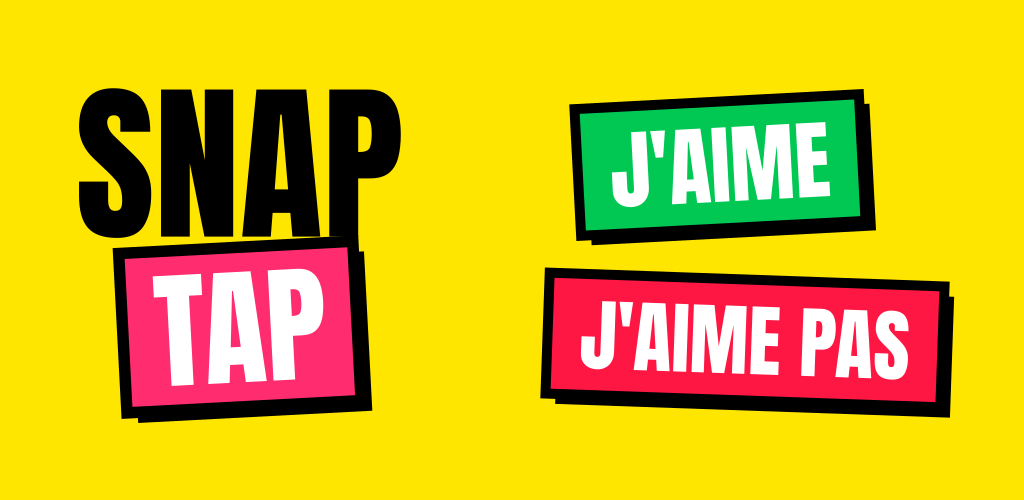
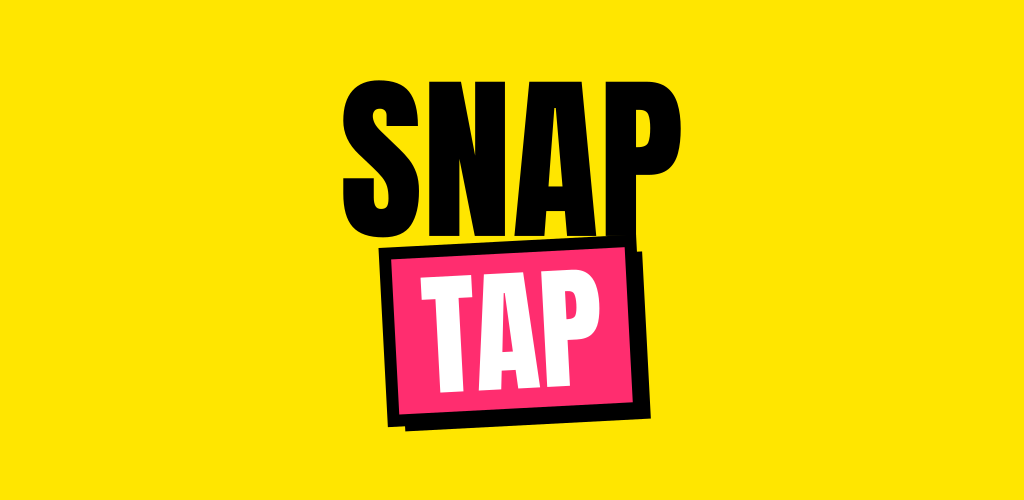
Habillage Mode Apero : fond biere dore, SNAP ERO, mise peaufinee
- Fond biere dore lumineux + grosse mousse (apero-bg webp portrait+wide)
- Logo SNAP ERO (jeu de mots APERO) + sous-titre "on mise des gorgees"
- Ecran resultat : espacements corriges, "Tout le monde boit N" sur 1 ligne
- Main de jeu : padding bas en mode apero (derniere carte plus masquee)
- Selecteur de mise epure (phrase d'aide retiree)
- cards.js : AMBER dore + APERO_ACCENT
- Banniere store : logo SNAP/TAP centre, sans pastilles
- index.css : fond apero-bg + cache-bust v4

diff --git a/src/components/Game.jsx b/src/components/Game.jsx
@@ -815,7 +815,7 @@ export default function Game({ room, roomCode, playerId, onLeave }) {
           </div>
         </div>
 
-        <div className="flex-1 px-4 pb-32 overflow-y-auto">
+        <div className={`flex-1 px-4 overflow-y-auto ${partyMode ? 'pb-48' : 'pb-32'}`}>
           <div className="grid grid-cols-2 gap-3 max-w-xl mx-auto">
             {myHandCardIds.map((cid) => {
               const card = pool[cid];
@@ -963,12 +963,6 @@ export default function Game({ room, roomCode, playerId, onLeave }) {
               ))}
             {partyMode && (
               <div className="mb-2">
-                <div
-                  style={{ fontFamily: '"Space Mono", monospace' }}
-                  className="text-[10px] uppercase tracking-widest text-center mb-1.5 opacity-70"
-                >
-                  Ta mise 🍺 · si ta carte est choisie, tout le monde boit
-                </div>
                 <div className="flex justify-center gap-2">
                   {[1, 2, 3, 4].map((n) => {
                     const on = bet === n;
@@ -1349,21 +1343,21 @@ export default function Game({ room, roomCode, playerId, onLeave }) {
 
           <div
             style={{ fontFamily: '"Space Mono", monospace' }}
-            className="text-[10px] uppercase tracking-widest opacity-60 mb-1"
+            className="text-[10px] uppercase tracking-widest opacity-60 mb-3"
           >
             Posée par
           </div>
           <div
             style={{
               fontFamily: '"Anton", sans-serif',
-              lineHeight: 0.9,
+              lineHeight: 1.05,
               fontSize: fitBig(winnerP?.name || ''),
               color: colorHex(winnerP?.color) || '#000',
               WebkitTextStroke: '5px #000',
               paintOrder: 'stroke fill',
               letterSpacing: '0.08em',
             }}
-            className="uppercase mb-2 break-words"
+            className="uppercase mb-6 break-words"
           >
             {winnerP?.name || '?'} {iAmWinner && '🎉'}
           </div>
@@ -1377,13 +1371,13 @@ export default function Game({ room, roomCode, playerId, onLeave }) {
                   boxShadow: '4px 4px 0 #000',
                   transform: 'rotate(3deg)',
                 }}
-                className="inline-block border-4 border-black px-4 py-3 text-3xl uppercase leading-none"
+                className="inline-block border-4 border-black px-4 py-3 text-3xl uppercase leading-none whitespace-nowrap"
               >
-                🍺 Tout le monde boit {winnerBet}
+                Tout le monde boit {winnerBet}
               </div>
               <div
                 style={{ fontFamily: '"Space Mono", monospace' }}
-                className="text-[11px] uppercase tracking-widest mt-4 flex items-center justify-center gap-2 flex-wrap"
+                className="text-[11px] uppercase tracking-widest mt-8 flex items-center justify-center gap-x-2 gap-y-1 flex-wrap"
               >
                 <span
                   style={{
@@ -1393,7 +1387,7 @@ export default function Game({ room, roomCode, playerId, onLeave }) {
                     WebkitTextStroke: '3px #000',
                     paintOrder: 'stroke fill',
                     letterSpacing: '0.05em',
-                    lineHeight: 1,
+                    lineHeight: 1.2,
                   }}
                 >
                   {winnerP?.name}

diff --git a/src/components/Home.jsx b/src/components/Home.jsx
@@ -11,7 +11,7 @@ import {
   setStoredAperoUnlock,
   ROOM_TTL_MS,
 } from '../utils';
-import { CATEGORIES, YELLOW, AMBER, PINK, MAX_PLAYERS } from '../cards';
+import { CATEGORIES, YELLOW, AMBER, PINK, APERO_ACCENT, MAX_PLAYERS } from '../cards';
 import { ChevronRight, Lock, X } from 'lucide-react';
 import InstallButton from './InstallButton.jsx';
 
@@ -190,13 +190,13 @@ export default function Home({ playerId, onJoin, initialError }) {
             <span
               className="inline-block px-5 py-2 -rotate-2 leading-none"
               style={{
-                backgroundColor: PINK,
+                backgroundColor: partyActive ? APERO_ACCENT : PINK,
                 color: '#fff',
                 border: '4px solid #000',
                 boxShadow: '6px 6px 0 #000',
               }}
             >
-              Tap
+              {partyActive ? 'Éro' : 'Tap'}
             </span>
           </h1>
           <div className="mt-4 flex items-center gap-2">
@@ -205,7 +205,7 @@ export default function Home({ playerId, onJoin, initialError }) {
               style={{ fontFamily: '"Space Mono", monospace' }}
               className="text-[10px] uppercase tracking-widest whitespace-nowrap text-black"
             >
-              {partyActive ? 'Mode apéro : on joue à boire' : "Devine ce qu'ils aiment ou pas…"}
+              {partyActive ? 'Mode apéro : on mise des gorgées' : "Devine ce qu'ils aiment ou pas…"}
             </div>
           </div>
         </div>
@@ -218,7 +218,7 @@ export default function Home({ playerId, onJoin, initialError }) {
             onClick={toggleParty}
             className="w-full border-4 border-black p-4 mb-8 flex items-center justify-between active:translate-x-[2px] active:translate-y-[2px]"
             style={{
-              backgroundColor: party ? PINK : '#FFF',
+              backgroundColor: party ? APERO_ACCENT : '#FFF',
               color: party ? '#FFF' : '#000',
               boxShadow: party ? '6px 6px 0 #000' : '4px 4px 0 #000',
               transition: 'all 120ms',
@@ -235,7 +235,7 @@ export default function Home({ playerId, onJoin, initialError }) {
                 style={{ fontFamily: '"Space Mono", monospace' }}
                 className="text-[10px] uppercase tracking-widest mt-1 opacity-80"
               >
-                {party ? 'Activé · on joue à boire !' : 'Jeu à boire · active-le'}
+                {party ? 'Activé · on mise des gorgées !' : 'Jeu à boire · active-le'}
               </div>
             </div>
             <div

diff --git a/src/cards.js b/src/cards.js
@@ -202,8 +202,10 @@ export const HAND_SIZE = 7;
 export const WINNING_SCORE = 5;
 export const YELLOW = '#FFE600';
 // Couleur de fond du Mode Apero (jeu a boire) : ambre "biere/golden", en
-// gardant les contours noirs + l'accent rose. Remplace le jaune sur les fonds.
-export const AMBER = '#FFA000';
+// gardant les contours noirs. Remplace le jaune sur les fonds.
+export const AMBER = '#FBB417';
+// Accent du Mode Apero : a tester (remplace le rose sur fond biere).
+export const APERO_ACCENT = '#FF2D6F';
 export const PINK = '#FF2D6F';
 export const LIKE_GREEN = '#00C853';
 export const DISLIKE_RED = '#FF1744';

diff --git a/src/index.css b/src/index.css
@@ -47,7 +47,7 @@ input {
    contenu ; sur mobile ou fixed est ignore, il defile simplement (ok). La
    couleur de fond inline (ambre) reste en secours si l'image ne charge pas. */
 .apero-bg {
-  background-image: url('/apero-bg.webp');
+  background-image: url('/apero-bg.webp?v=4');
   background-size: cover;
   background-position: center center;
   background-repeat: no-repeat;
@@ -55,6 +55,6 @@ input {
 }
 @media (min-width: 768px) {
   .apero-bg {
-    background-image: url('/apero-bg-wide.webp');
+    background-image: url('/apero-bg-wide.webp?v=4');
   }
 }